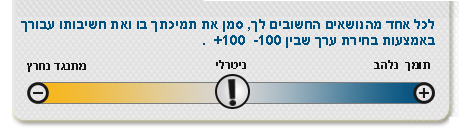
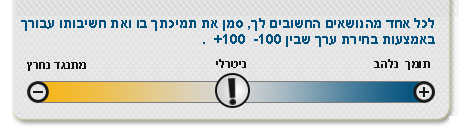
add instruction above the agenda list

diff --git a/mitpakdim.css b/mitpakdim.css
@@ -1,13 +1,13 @@
 window, body {
     margin : 0;
     padding : 0;
-    direction : rtl;
 }
 .page_top_bar {
     background-image : url("./static/header_back.png");
     background-repeat : repeat;
     height : 66px;
     width : 100%;
+    direction : rtl;
 }
 .page_top_bar .content {
     width : 960px;
@@ -31,6 +31,7 @@ window, body {
 
 
 #app_root {
+    direction : rtl;
     font-family : Arial, Helvetica, Sans-serif;
     vertical-align : top;
     width : 100%;
@@ -48,6 +49,12 @@ window, body {
     display : inline-block;
     vertical-align : top;
 }
+.agendas_container .instructions {
+    margin-right : -27px;
+    background-image : url("./static/instructions.png");
+    height : 130px;
+    width : 465px;
+}
 .agenda_item {
     border-width : 0 0 1px 0;
     border-color : #348dc5;
@@ -58,7 +65,7 @@ window, body {
 }
 .agenda_item .ui-slider {
     border-width : 0;
-    margin-top : 10px;
+    margin: 10px auto 0 auto;
     height : 22px;
     width : 386px;
 }

diff --git a/base.html b/base.html
@@ -48,6 +48,7 @@
             </div>
             <div class="agendas_section party_page">
                 <div class="agendas_container">
+                    <div class="instructions"></div>
                     Agendas: <div class="agendas"></div>
                 </div>
                 <div class="candidates_container">
